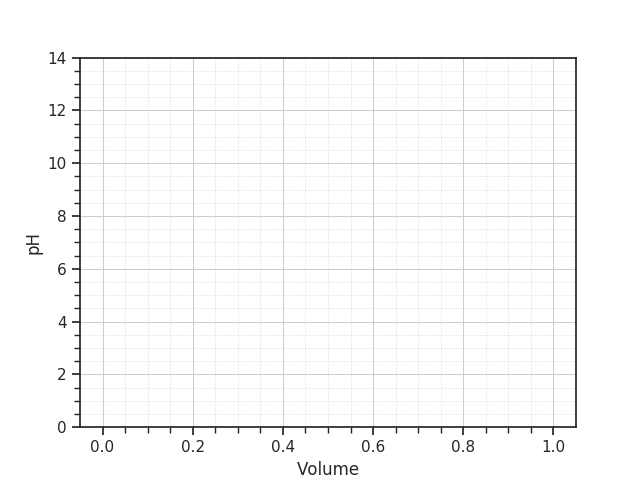
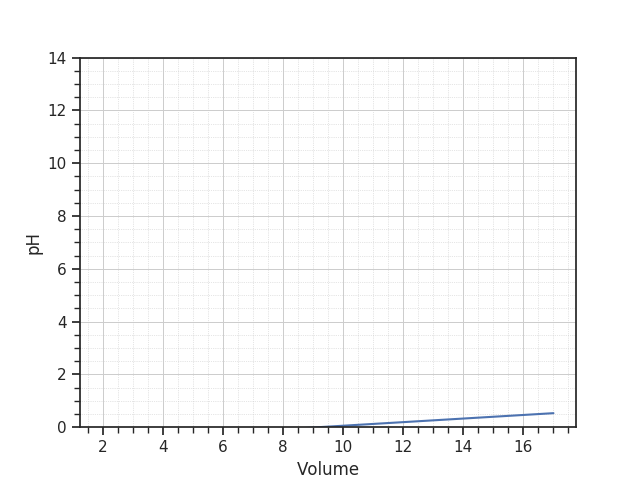
not working need love

diff --git a/chemistry/templates/chemistry/add_acid.html b/chemistry/templates/chemistry/add_acid.html
@@ -1,0 +1,67 @@
+<!DOCTYPE html>
+<html lang="en">
+<head>
+    <meta charset="UTF-8">
+    <title>Dodaj kwas</title>
+    <style>
+    input[type=text], select {
+  width: 20%;
+  padding: 12px 20px;
+  margin: 8px 0;
+  display: inline-block;
+  border: 1px solid #ccc;
+  border-radius: 4px;
+  box-sizing: border-box;
+}
+
+     body {
+            background-color: #fdfdfd
+            }
+        * {
+            box-sizing: border-box;
+        }
+        .btn {
+            background-color: #41B1E3;
+            font-size: 16px;
+            padding: 14px 6px;
+            font-weight: bolder;
+            cursor: pointer;
+            display: inline-block;
+            position: absolute;
+            left: 20px;
+            bottom: 20px;
+        }
+
+        .btn:hover {background: #41B1E3;}
+
+        .dodaj {color: white; float: left;}
+
+        .header {
+          padding: 25px;
+          text-align: center;
+          background: #41B1E3;
+          color: white;
+          font-size: 24px
+        }
+
+        .wciecie {
+        margin-left: 40px
+        }
+
+    </style>
+</head>
+<div class="header" >
+    <h1>Automat regulujący pH w zbiorniku</h1>
+</div>
+<div class="wciecie">
+<br>
+<form method="post">
+{% csrf_token %}
+    {{ form.as_p }}
+    <button type="submit">Dodaj</button>
+</form>
+</div>
+<body>
+<a href="/"><button class="btn dodaj" >Powrót</button></a>
+</body>
+</html>

diff --git a/chemistry/templates/chemistry/main.html b/chemistry/templates/chemistry/main.html
@@ -42,6 +42,11 @@
             position: absolute;
             left: 20px;
             bottom: 20px;}
+        .dodaj2 {color: white;
+            float: left;
+            position: relative;
+            left: 20px;
+            bottom: 20px;}
         .usun {color: white;
             float: right;
             position: absolute;
@@ -84,6 +89,8 @@
 <ul class="b">
     <li >Ustalone pH: {{ container.pH }}</li>
     <li>Ilość płynu w tej chwili: {{ container.V }}</li>
+    <li>Ilość płynu w tej chwili: {{ a }}</li>
+    <li>Ilość płynu w tej chwili: {{ b }}</li>
 </ul>
 <br>
 <p class="a">Substancja dodana przez użytkownika:</p>
@@ -95,7 +102,8 @@
 <img src="{{ container.Plot.url }}"  />
 </div>
 
-<a href="/add"><button class="btn dodaj">Dodaj substancję</button></a>
+<a href="/adda"><button class="btn dodaj">Dodaj kwas</button></a>
+<a href="/addh"><button class="btn dodaj2">Dodaj zasadę</button></a>
 <a href="/del"><button class="btn usun" >Usuń zawartość zbiornika</button></a>
 </body>
 </html> 

diff --git a/chemistry/templates/chemistry/add_hydro.html b/chemistry/templates/chemistry/add_hydro.html
@@ -2,7 +2,7 @@
 <html lang="en">
 <head>
     <meta charset="UTF-8">
-    <title>Add</title>
+    <title>Dodaj zasadę</title>
     <style>
     input[type=text], select {
   width: 20%;
@@ -55,23 +55,13 @@
 </div>
 <div class="wciecie">
     <br>
-    <br>
-<div>
-    Rodzaj substancji:
-    <br>
-    <select>
-  <option value="HCl">HCl</option>
-  <option value="NaOH">NaOH</option>
-</select>
-</div>
-<br>
-<form action="/action_page.php">
-Ilość do dolania:
-    <br>
-    <input type="text" name="ilosc">&nbsp;&nbsp;&nbsp;[ml]<br>
-</form>
+    <form method="post">
+        {% csrf_token %}
+        {{ form.as_p }}
+        <button type="submit">Dodaj</button>
+    </form>
 </div>
 <body>
-<button class="btn dodaj" id="foo">Dolej substancje</button>
+<a href="/"><button class="btn dodaj" >Powrót</button></a>
 </body>
 </html>

diff --git a/chemistry/views.py b/chemistry/views.py
@@ -1,24 +1,37 @@
 import datetime
 import math
+
 import matplotlib.pyplot as plt
 import seaborn as sns
 from pandas.plotting import register_matplotlib_converters
-from django.http import HttpResponse, HttpResponseRedirect
 from django.shortcuts import render, redirect
-
+from .forms import AcidForm, HydroForm
 from .models import Hydroxide, Acid, Container
 
 register_matplotlib_converters()
 
 
 def sub_added(container, substance):
-    H = container.V * container.CmH
+    H = (10**(-container.pH))*container.V
     container.V += substance.V
+    container.save(update_fields=['V'])
     if type(substance) == Hydroxide:
         container.CmH = (H - substance.mol_OH) / container.V
     elif type(substance) == Acid:
         container.CmH = (H + substance.mol_H) / container.V
+    container.save(update_fields=['CmH'])
     container.pH = -math.log10(container.CmH)
+    container.save(update_fields=['pH'])
+    if len(container.pHs) > 0:
+        container.pHs = container.pHs + " " + str(container.pH)
+    else:
+        container.pHs = str(container.pH)
+    container.save(update_fields=["pHs"])
+    if len(container.Vs) > 0:
+        container.Vs = container.Vs + " " + str(container.V)
+    else:
+        container.Vs = str(container.V)
+    container.save(update_fields=["Vs"])
 
 
 def reaction(container):
@@ -38,15 +51,15 @@ def main_view(request):
     sns.set()
     sns.set_style("ticks")
     if len(container.Vs) > 1:
-        Vs = [int(i) for i in container.Vs.split(" ")]
+        Vs = [float(i) for i in container.Vs.split(" ")]
     elif len(container.Vs) == 1:
-        Vs = [int(container.Vs)]
+        Vs = [float(container.Vs)]
     else:
         Vs = []
     if len(container.pHs) > 1:
-        pHs = [int(i) for i in container.pHs.split(" ")]
+        pHs = [float(i) for i in container.pHs.split(" ")]
     elif len(container.pHs) == 1:
-        pHs = [int(container.pHs)]
+        pHs = [float(container.pHs)]
     else:
         pHs = []
 
@@ -57,13 +70,44 @@ def main_view(request):
         substance = last_acid
     else:
         substance = last_hydroxide
-
-    context = {'container': container, 'substance': substance, }
+    a = Vs
+    b = pHs
+    context = {'container': container, 'substance': substance, 'a' : Vs, 'b' : pHs}
     return render(request, 'chemistry/main.html', context)
 
 
-def add_substance(request):
-    return render(request, 'chemistry/add.html', {'container': Container.objects.all()[0]})
+def add_hydro(request):
+    container = Container.objects.all()[0]
+    form = HydroForm(request.POST)
+    if form.is_valid():
+        name = form.cleaned_data['name']
+        V = form.cleaned_data['V']
+        Cm = form.cleaned_data['Cm']
+        if name[-1].isalpha():
+            mol_OH = V * Cm
+        else:
+            mol_OH = int(name[-1]) * V * Cm
+        sub = Hydroxide.objects.create(name=name, V=V, Cm=Cm, mol_OH=mol_OH)
+        sub_added(container, sub)
+    form = HydroForm()
+    return render(request, 'chemistry/add_hydro.html', {'form': form})
+
+
+def add_acid(request):
+    container = Container.objects.all()[0]
+    form = AcidForm(request.POST)
+    if form.is_valid():
+        name = form.cleaned_data['name']
+        V = form.cleaned_data['V']
+        Cm = form.cleaned_data['Cm']
+        if name[1].isalpha():
+            mol_H = V * Cm
+        else:
+            mol_H = int(name[1]) * V * Cm
+        sub = Acid.objects.create(name=name, V=V, Cm=Cm, mol_H=mol_H)
+        sub_added(container, sub)
+    form = AcidForm()
+    return render(request, 'chemistry/add_acid.html', {'form': form})
 
 
 def delete(request):
@@ -74,12 +118,12 @@ def delete(request):
     container.V = 0.0
     container.pHs = ''
     container.Vs = ''
-    plot_ph([], [])
-    container.save(update_fields=['Vs', 'pHs', 'V', 'aim_pH', 'pH', 'CmH', ])
+    container.Plot = "media/pic1.png"
+    container.save(update_fields=['Vs', 'pHs', 'V', 'aim_pH', 'pH', 'CmH', 'Plot'])
     return redirect('/')
 
 
-def plot_ph(x, y):
+def plot_ph(y, x):
     plt.xlabel("Volume")
     plt.ylabel("pH")
     plt.minorticks_on()

diff --git a/chemistry/models.py b/chemistry/models.py
@@ -8,8 +8,8 @@ class Acid(models.Model):
 
     name = models.CharField(max_length=8)
     V = models.FloatField(default=0)
-    mol_H = models.IntegerField('[H+]')
-    all_mol = models.IntegerField('Cm')
+    mol_H = models.FloatField('nH', default=1.0)
+    Cm = models.IntegerField('Cm')
     when_added = models.DateTimeField(default=timezone.now())
 
 
@@ -19,8 +19,8 @@ class Hydroxide(models.Model):
 
     name = models.CharField(max_length=8)
     V = models.FloatField(default=0)
-    mol_OH = models.IntegerField('[OH-]')
-    all_mol = models.IntegerField('Cm')
+    mol_OH = models.FloatField('nOH', default=1)
+    Cm = models.IntegerField('Cm')
     when_added = models.DateTimeField(default=timezone.now())
 
 

diff --git a/chemistry/admin.py b/chemistry/admin.py
@@ -4,12 +4,12 @@ from .models import Acid, Hydroxide, Container
 
 # Register your models here.
 class AcidAdmin(admin.ModelAdmin):
-    list_display = ['name', 'mol_H', 'all_mol']
+    list_display = ['name', 'mol_H', 'Cm']
     list_filter = ['mol_H']
 
 
 class HydroxideAdmin(admin.ModelAdmin):
-    list_display = ['name', 'mol_OH', 'all_mol']
+    list_display = ['name', 'mol_OH', 'Cm']
     list_filter = ['mol_OH']
 
 

diff --git a/chemistry/forms.py b/chemistry/forms.py
@@ -1,0 +1,13 @@
+from django import forms
+
+
+class AcidForm(forms.Form):
+    name = forms.CharField(max_length=8, required=True)
+    V = forms.FloatField(required=True)
+    Cm = forms.IntegerField(required=True)
+
+
+class HydroForm(forms.Form):
+    name = forms.CharField(max_length=8, required=True)
+    V = forms.FloatField(required=True)
+    Cm = forms.IntegerField(required=True)

diff --git a/chemistry/urls.py b/chemistry/urls.py
@@ -4,7 +4,8 @@ from . import views
 
 urlpatterns = [
     path('', views.main_view, name='main'),
-    path('add', views.add_substance, name='add'),
+    path('addh', views.add_hydro, name='add_hydro'),
+    path('adda', views.add_acid, name='add_acid'),
     path('del', views.delete),
 ]
 
